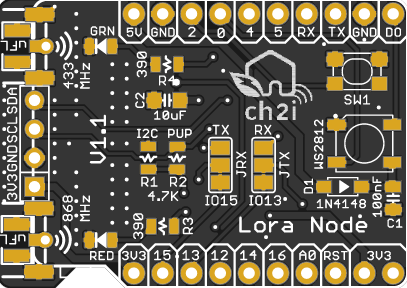
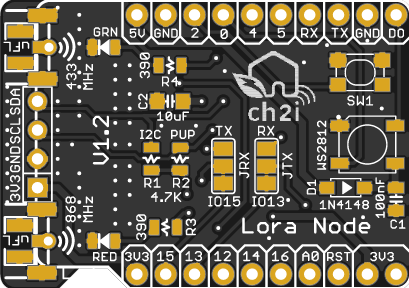
Bump to V1.2

diff --git a/README.md b/README.md
@@ -15,14 +15,19 @@ This shield is used to hold [RN2483][4] Software with WeMos ESP8266 boards it ha
 You can find more information on WeMos on their [site][1], it's really well documented. There is also a nice blog post on Microchip module made by disk91 [here][5]
 I now use WeMos boards instead of NodeMCU's one because they're just smaller, features remains the same, but I also suspect WeMos regulator far better quality than the one used on NodeMCU that are just fake of originals AMS117 3V3.
 
-**Boards arrived from OSHPark, I tested them, worked out of the box but I made new revision cand corrected some mistakes**
+**V1.1 Boards arrived from OSHPark, I tested them, worked out of the box but I made new revision cand corrected some mistakes**
+V1.2 contain the following changes (board only, nothing chnaged on schematic):
+- Added isolate ground pane to avoid sometime short between header and ground after soldering headers 
+- Changed Silk to Node instead of gateway 
+
+**V1.0 Boards arrived from OSHPark, I tested them, worked out of the box but I made new revision cand corrected some mistakes**
 V1.1 contain the following changes:
 - Error with RX/TX swapped on ESP8266, they are GPIO15/GPIO13 nor GPIO12/GPIO13 (so with V1.0 you can use SoftSerial or Native RX/TX of ESP but not in swapped mode)
 - I made larger pad for Microchip module, even if I have strong experience in soldering in SMD, it was a pain to do them see picture below, I suspected board/solder. Ok made some new ones, think now I've got the technique ;-)
 - Switch moved from GPIO14 to GPIO2, so I removed pullup because WeMos already have one on GPIO2
 - Removed GPIO0 and GPIO11 from RN2483 to avoid as much as possible closer PAD
 
-**V1.1 Boards are tested and working**
+**V1.1 Boards are tested and working, waiting to test V1.2 but should works, just minor changes**
 
 Detailed Description
 ====================
